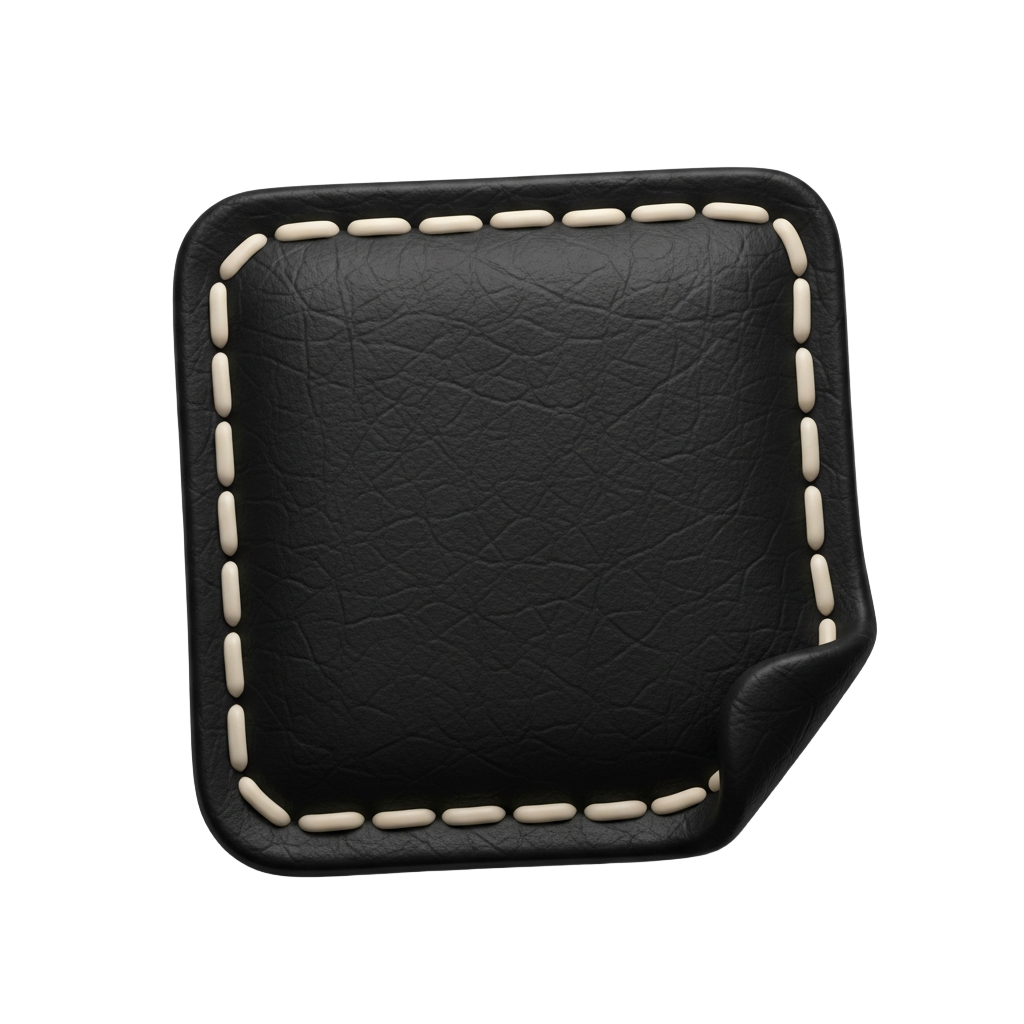
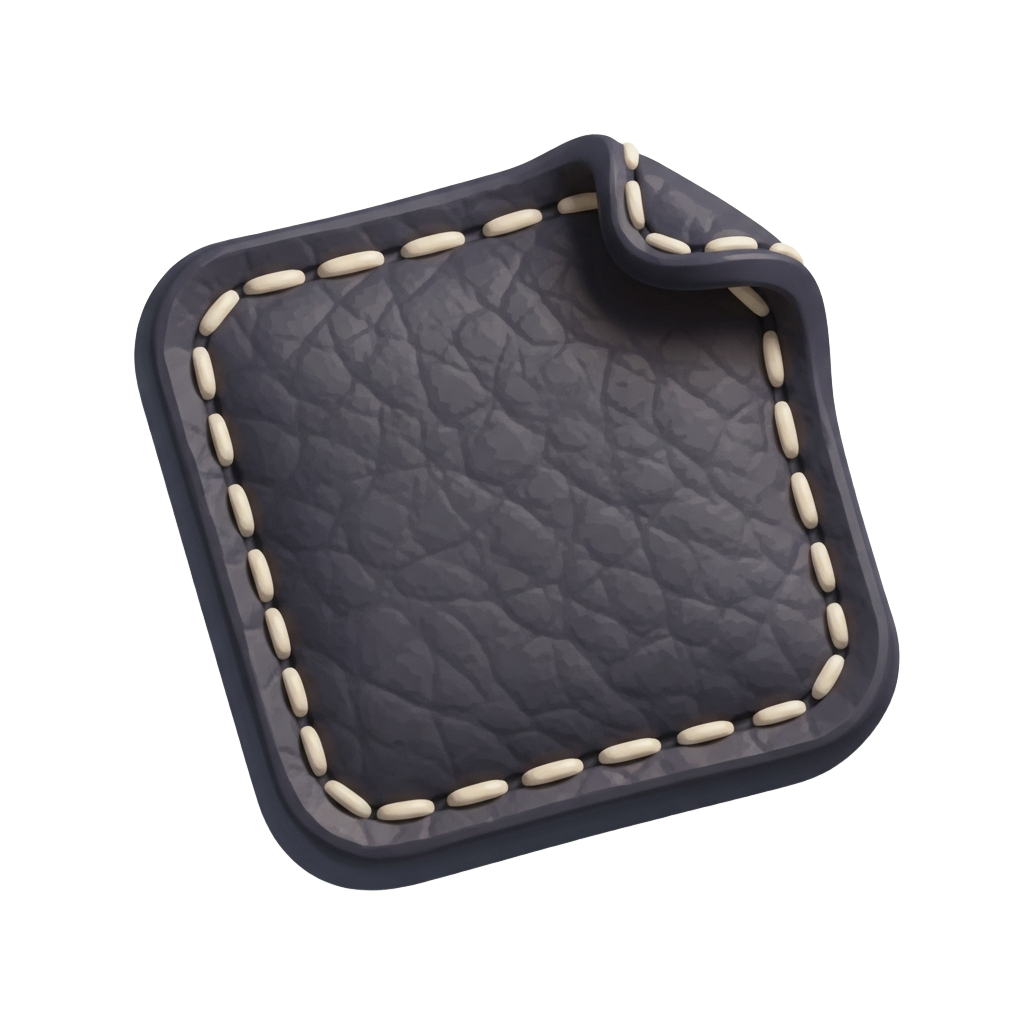
part_15_leather v3: dark charcoal, not pure black
Owner clarified after v2 landed — the leather patch should read as
charcoal, not pure black. Regen with prompt anchored on dark
charcoal gray (#36414a-ish), warm-tinted, "NOT pure black".

Archive v2 under _archive/part_15_leather_v2_black*. Main
gen-parts-14-15-23.js script updated to the v3 prompt. Single-asset
one-shot wrapper added at scripts/gen-part-15-only.js so small tweaks
don't burn CU on the already-approved button and plastic parts.

diff --git a/scripts/gen-part-15-only.js b/scripts/gen-part-15-only.js
@@ -1,0 +1,82 @@
+// One-shot: regenerate ONLY part_15_leather with the latest charcoal
+// prompt from gen-parts-14-15-23.js. Used after an owner tweak so we
+// don't burn CU on the other two parts that are already approved.
+
+const path = require('path');
+
+process.argv.push('--one', 'part_15_leather');
+
+// We can't easily reuse the loop in gen-parts-14-15-23.js without a
+// flag, so duplicate the small pipeline here. Keeps the main script
+// simple.
+
+const fs = require('fs');
+
+const API_KEY = process.env.SCENARIO_API_KEY || 'api_RsoY5ydaHBrf9jsce2iq8DSQ';
+const API_SECRET = process.env.SCENARIO_API_SECRET || 'fRnoC2LzCCWukUZqeEq3d4GL';
+const AUTH = Buffer.from(API_KEY + ':' + API_SECRET).toString('base64');
+const ROOT = 'https://api.cloud.scenario.com/v1';
+
+const BASE = 'Clash of Clans style, vibrant saturated colors, soft shadows, 3D cartoon render, slightly exaggerated proportions, clean textures, game asset on white background, mobile game art';
+
+const ASSET = {
+    dir: 'parts',
+    name: 'part_15_leather',
+    prompt:
+        'Cute cartoon 3D small square piece of dark charcoal gray leather patch, '
+        + 'dark charcoal color (approximately #36414a, like heather coal), '
+        + 'NOT pure black, slightly warm dark gray with visible leather grain, '
+        + 'delicate cream white thread stitching around the edges, '
+        + 'slight rolled corner, soft and handmade feel, '
+        + 'centered single item on transparent background, '
+        + 'NO brown, NO tan, NO pure black, dark charcoal gray leather only, '
+        + BASE
+        + ', transparent background',
+};
+
+async function apiCall(method, url, body) {
+    const opts = { method, headers: { Authorization: 'Basic ' + AUTH, 'Content-Type': 'application/json', accept: 'application/json' } };
+    if (body) opts.body = JSON.stringify(body);
+    const resp = await fetch(url, opts);
+    const text = await resp.text();
+    let data; try { data = JSON.parse(text); } catch { throw new Error('Non-JSON ' + resp.status + ': ' + text.slice(0, 300)); }
+    if (!resp.ok) throw new Error('API ' + resp.status + ': ' + text.slice(0, 400));
+    return data;
+}
+async function waitForJob(jobId) {
+    for (;;) {
+        await new Promise(r => setTimeout(r, 4000));
+        const d = await apiCall('GET', ROOT + '/jobs/' + jobId);
+        if (d.job.status === 'success') return d.job.metadata.assetIds[0];
+        if (d.job.status === 'failed') throw new Error('job failed: ' + JSON.stringify(d.job).slice(0, 400));
+        process.stdout.write('.');
+    }
+}
+async function download(assetId, out) {
+    const d = await apiCall('GET', ROOT + '/assets/' + assetId);
+    const url = d.asset?.url || d.url;
+    const resp = await fetch(url);
+    fs.writeFileSync(out, Buffer.from(await resp.arrayBuffer()));
+}
+
+async function main() {
+    const dir = path.resolve('public/assets/generated', ASSET.dir);
+    const rawPath = path.join(dir, ASSET.name + '_raw.png');
+    const finalPath = path.join(dir, ASSET.name + '.png');
+
+    console.log('prompt:', ASSET.prompt, '\n');
+    process.stdout.write('gen ');
+    const gen = await apiCall('POST', ROOT + '/generate/custom/model_imagen4-ultra', { prompt: ASSET.prompt, aspectRatio: '1:1' });
+    const genId = await waitForJob(gen.job.jobId);
+    console.log(' ok', genId);
+    await download(genId, rawPath);
+    console.log('raw:', rawPath);
+
+    process.stdout.write('bria ');
+    const rembg = await apiCall('POST', ROOT + '/generate/custom/model_bria-remove-background', { image: genId });
+    const rembgId = await waitForJob(rembg.job.jobId);
+    console.log(' ok', rembgId);
+    await download(rembgId, finalPath);
+    console.log('final:', finalPath);
+}
+main().catch(e => { console.error('FATAL', e); process.exit(1); });

diff --git a/scripts/gen-parts-14-15-23.js b/scripts/gen-parts-14-15-23.js
@@ -40,12 +40,13 @@ const ASSETS = [
         dir: 'parts',
         name: 'part_15_leather',
         prompt:
-            'Cute cartoon 3D small square piece of black leather patch, '
-            + 'deep matte black color with subtle leather grain texture, '
+            'Cute cartoon 3D small square piece of dark charcoal gray leather patch, '
+            + 'dark charcoal color (approximately #36414a, like heather coal), '
+            + 'NOT pure black, slightly warm dark gray with visible leather grain, '
             + 'delicate cream white thread stitching around the edges, '
             + 'slight rolled corner, soft and handmade feel, '
             + 'centered single item on transparent background, '
-            + 'NO brown, NO tan, only black leather, '
+            + 'NO brown, NO tan, NO pure black, dark charcoal gray leather only, '
             + BASE
             + ', transparent background',
     },
